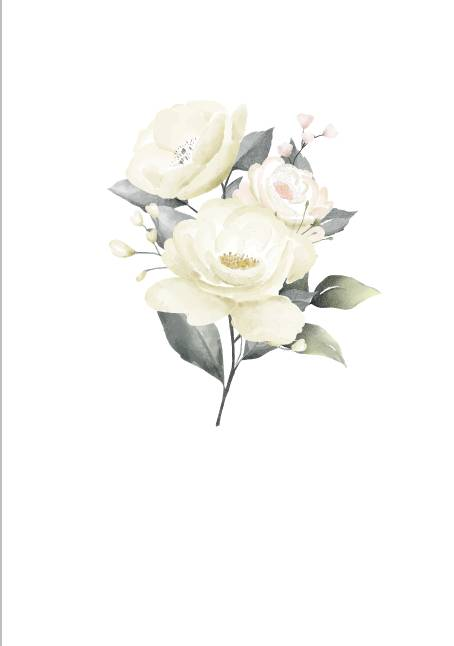
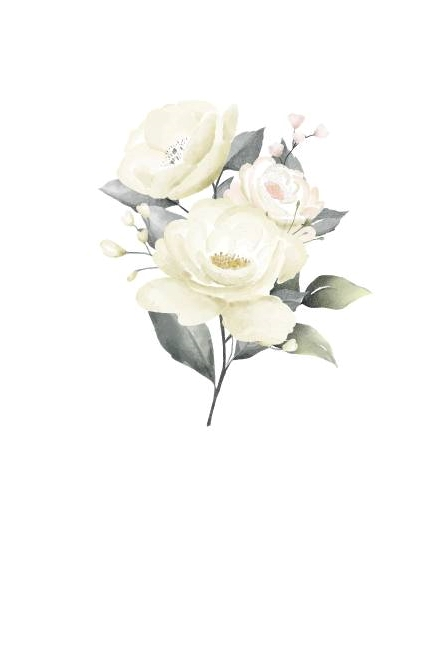
update background

diff --git a/src/components/homePage/invite/invite.css b/src/components/homePage/invite/invite.css
@@ -1,8 +1,8 @@
 .inviteContent{
-    background-image: url('../../assets/background4.jpg');
+    background-image: url('../../assets/background2.jpg');
     display: flex;
     background-size: cover;
-    background-position: bottom;
+    background-position: top;
     justify-content: space-evenly;
     flex-direction: column;
     text-align: center;
@@ -12,6 +12,7 @@
     display: flex;
     flex-direction: row;
     justify-content: space-between;
+    padding-top: 500px;
 }
 .parents{
     text-align: center;
@@ -22,7 +23,7 @@
 }
 .inviteNote{
     margin-top: 40px;
-    padding-bottom: 500px;
+    padding-bottom: 20px;
 }
 .inviteNote h3{
     margin: 10px 0 70px 0; 
@@ -42,8 +43,8 @@
     .parents{
         margin: 5px 40px 10px 40px;
     }
-    .inviteNote{
-        padding-bottom: 200px;
+    .parentsContent{
+        padding-top: 200px;
     }
 }
 @media screen and (max-width:340px) {

diff --git a/src/components/homePage/invite/invite.jsx b/src/components/homePage/invite/invite.jsx
@@ -1,6 +1,6 @@
 import React from 'react'
 import './invite.css';
-import wedding from '../../assets/wedding4.svg';
+// import wedding from '../../assets/wedding4.svg';
 
 const Invite = () => {
   return (
@@ -19,7 +19,7 @@ const Invite = () => {
             <h3>Los invitan al matrimonio de sus hijos</h3>
             <h2>Laura y Sebastian</h2>
             <p>el día 4 de junio de 2022</p>
-            <img className='image' src={wedding} alt='boda'/>
+            {/* <img className='image' src={wedding} alt='boda'/> */}
         </div>
     </div>
   )

diff --git a/src/components/homePage/homePage.jsx b/src/components/homePage/homePage.jsx
@@ -3,7 +3,7 @@ import './homePage.css';
 import NavBar from './navBar/navBar.jsx';
 import ContactUs from './contactUs/contactUs.jsx';
 import LandingHome from './landingHome/landingHome.jsx';
-import Poema from './Poema/Poema';
+// import Poema from './Poema/Poema';
 import Invite from './invite/invite';
 import Places from './places/places';
 // import Info from './info/info';
@@ -14,7 +14,7 @@ const HomePage = () => {
   <div>
     <NavBar/>
     <LandingHome/>
-    <Poema/>
+    {/* <Poema/> */}
     <Invite/>
     <Places/>
     {/* <Info/> */}

diff --git a/src/components/homePage/places/places.jsx b/src/components/homePage/places/places.jsx
@@ -3,7 +3,7 @@ import './places.css';
 
 const Places = () => {
   return (
-    <>  
+    <div className='placesContent'>  
     <div class="container">
         <div class="card">
             <div class="face face1">
@@ -77,7 +77,7 @@ const Places = () => {
             </div>
         </div>
     </div>
-    </>
+    </div>
   )
 }
 

diff --git a/src/components/homePage/places/places.css b/src/components/homePage/places/places.css
@@ -1,3 +1,8 @@
+.placesContent{
+    background-image: url('../../assets/background1.jpg');
+    background-size: contain;
+    background-position: center;
+}
 .container{
     position: relative;
     display: flex;
